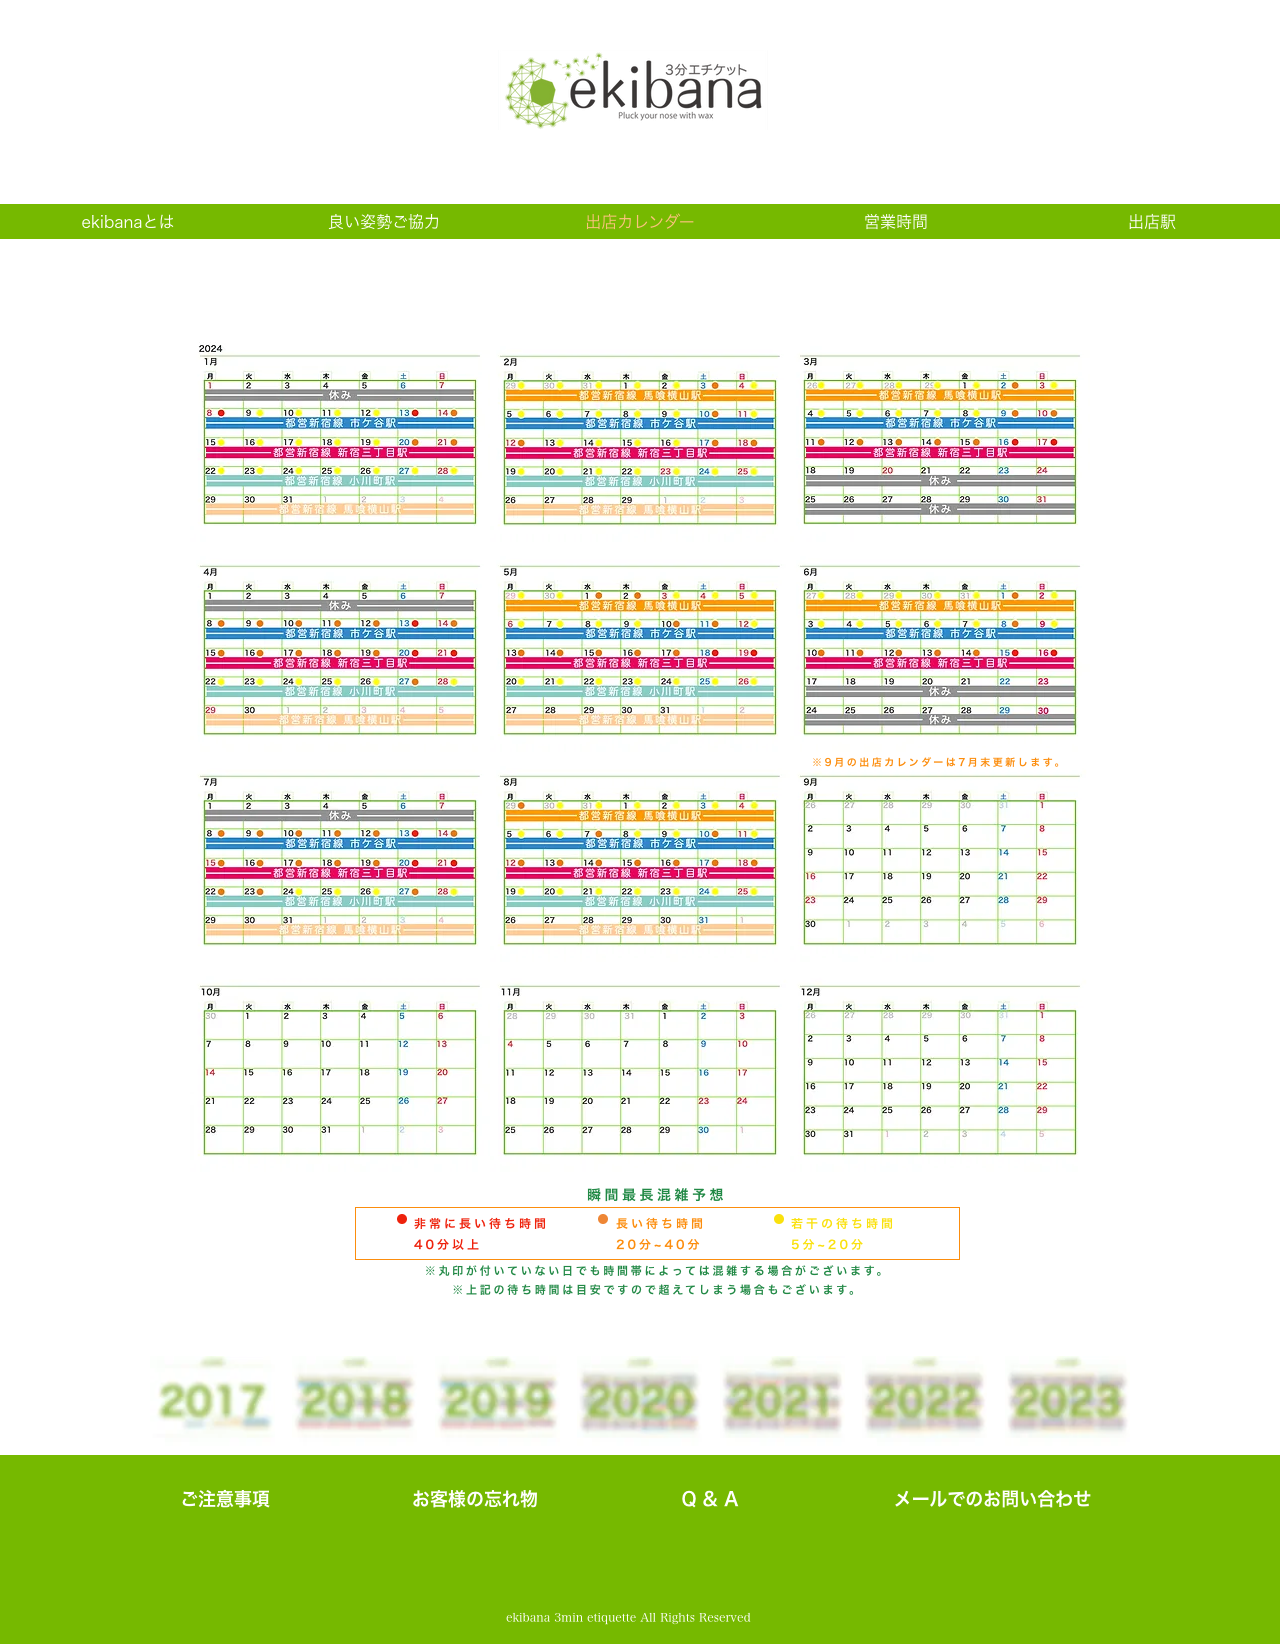
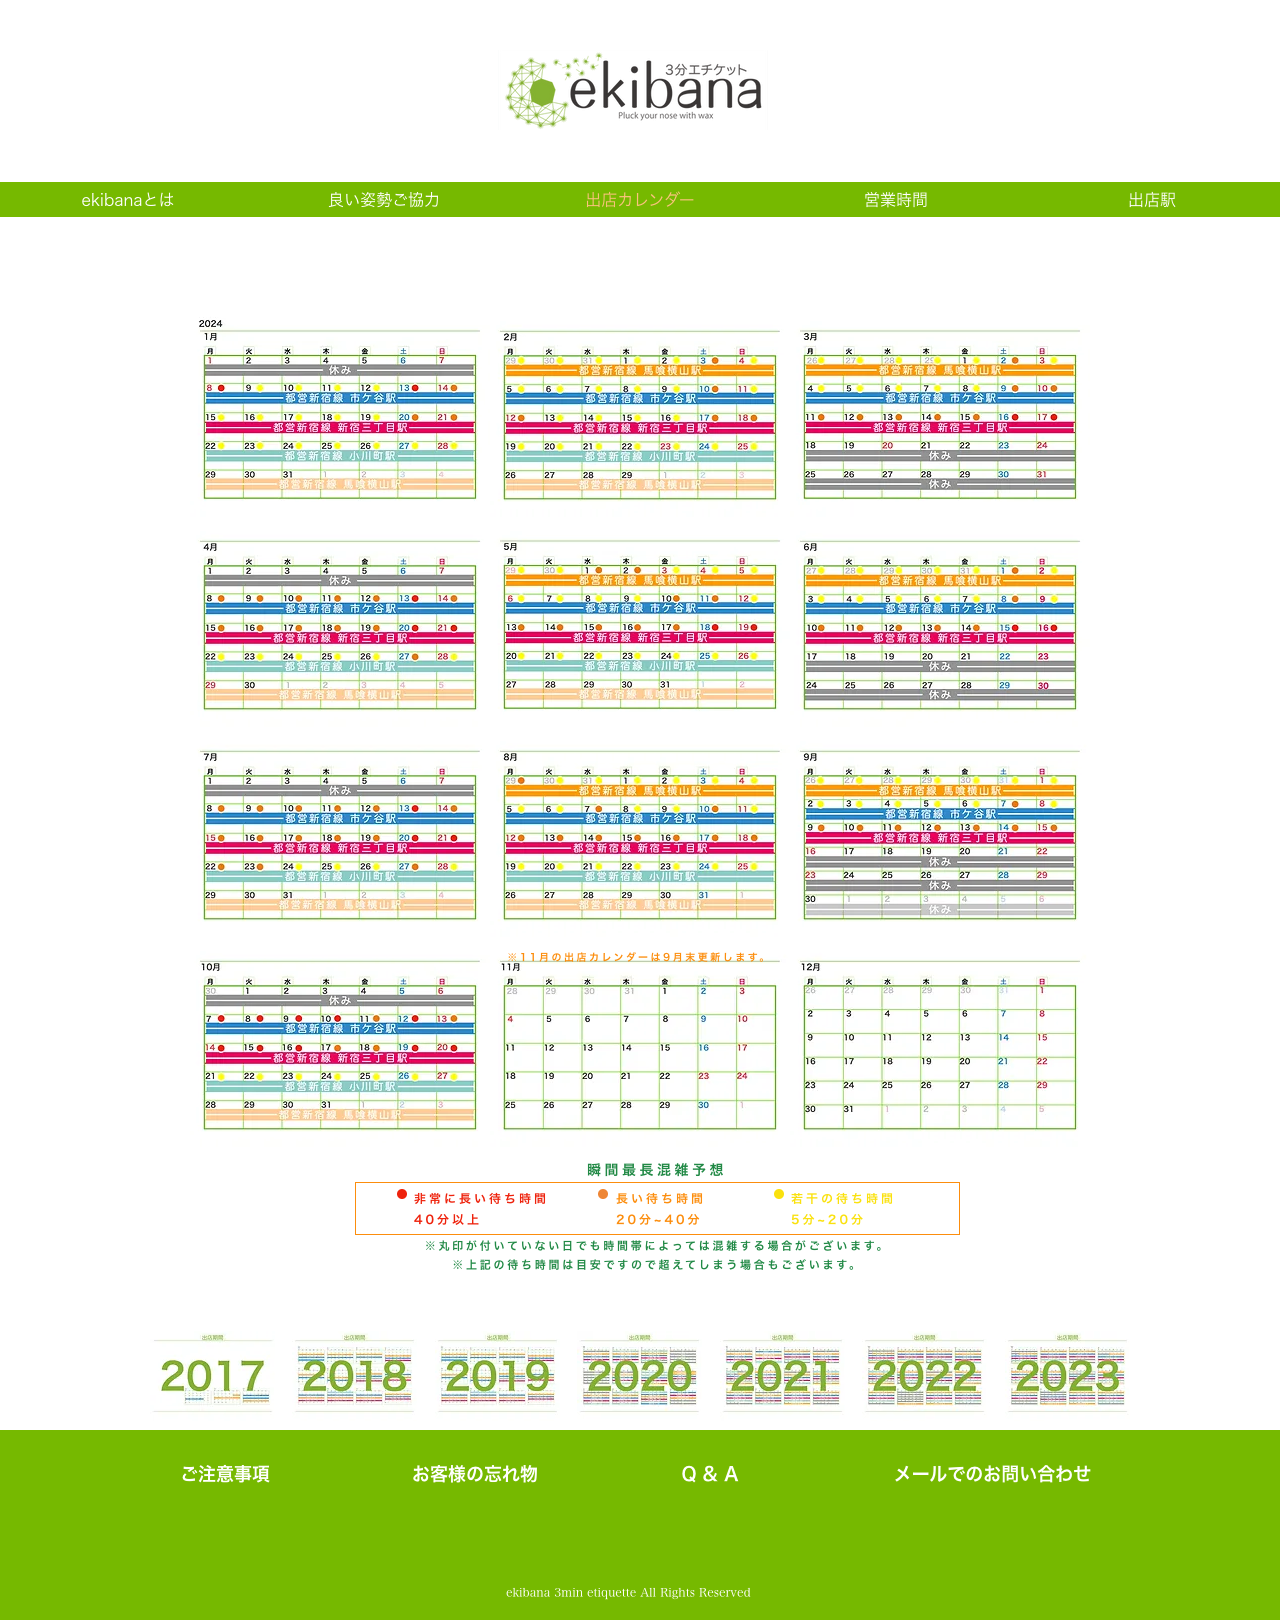
Add schedule September, October of 2024

Changed region(s): [[0.125, 0.1852, 0.875, 0.9259], [0.0, 0.0309, 1.0, 0.1543]]

diff --git a/hanage/schedules.ts b/hanage/schedules.ts
@@ -518,6 +518,55 @@ const schedules2024: SchedulesOfMonth = {
       to: "2024-08-31",
     },
   ],
+  9: [
+    {
+      station: stations.bakuroYokoyama,
+      from: "2024-09-01",
+      to: "2024-09-01",
+    },
+    {
+      station: stations.ichigaya,
+      from: "2024-09-02",
+      to: "2024-09-08",
+    },
+    {
+      station: stations.shinjukuSanchome,
+      from: "2024-09-09",
+      to: "2024-09-15",
+    },
+    {
+      station: holiday,
+      from: "2024-09-16",
+      to: "2024-09-30",
+    },
+  ],
+  10: [
+    {
+      station: holiday,
+      from: "2024-10-01",
+      to: "2024-10-06",
+    },
+    {
+      station: stations.ichigaya,
+      from: "2024-10-07",
+      to: "2024-10-13",
+    },
+    {
+      station: stations.shinjukuSanchome,
+      from: "2024-10-14",
+      to: "2024-10-20",
+    },
+    {
+      station: stations.ogawamachi,
+      from: "2024-10-21",
+      to: "2024-10-27",
+    },
+    {
+      station: stations.bakuroYokoyama,
+      from: "2024-10-28",
+      to: "2024-10-31",
+    },
+  ],
 };
 
 const schedules: SchedulesOfYear = {
